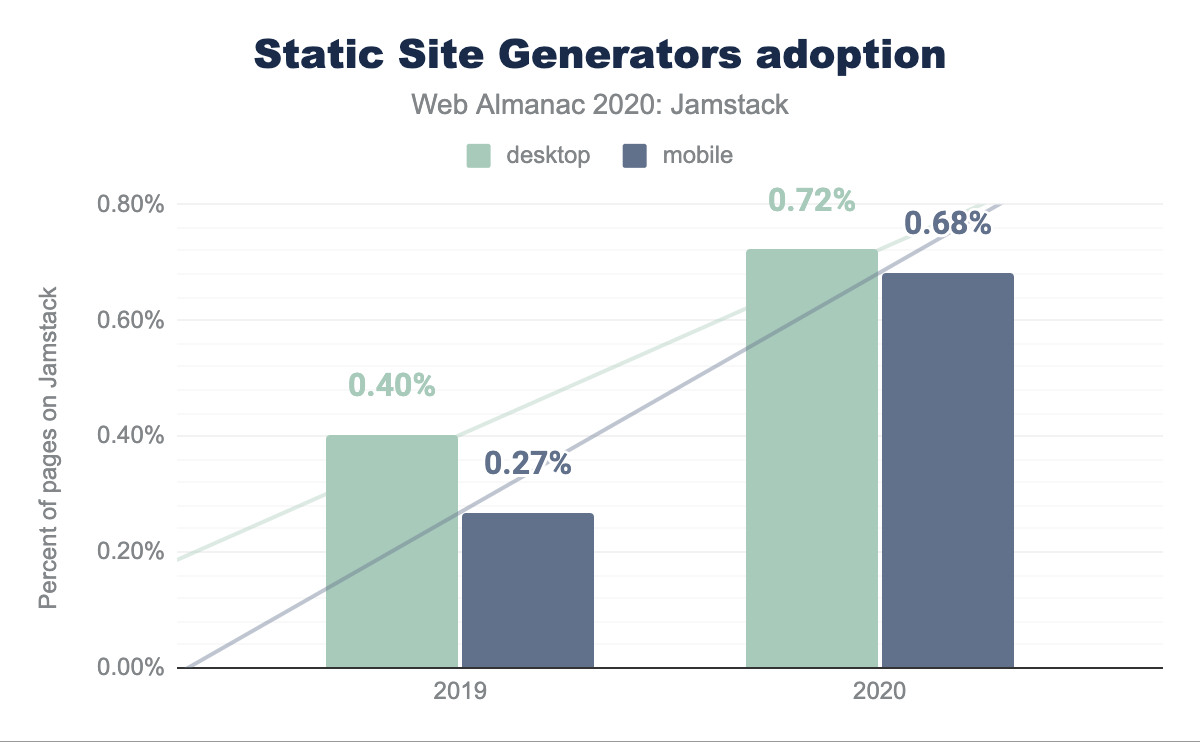
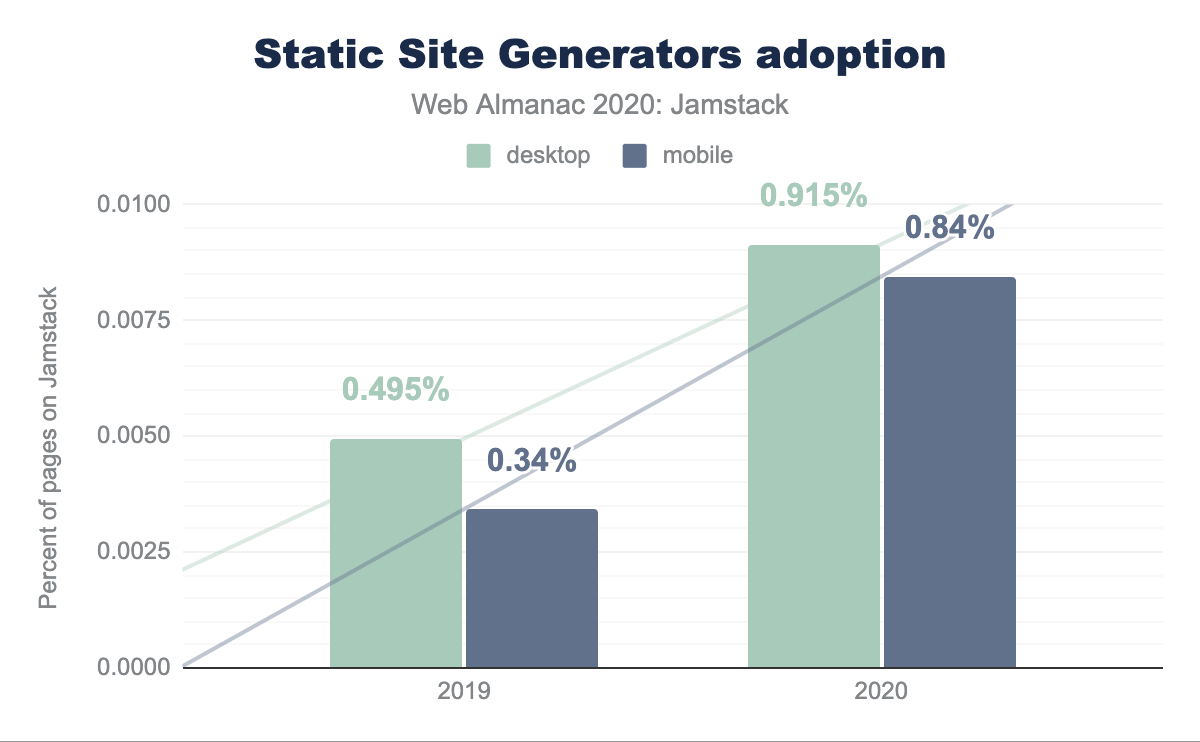
Update first chart and featured quote

diff --git a/src/content/en/2020/jamstack.md b/src/content/en/2020/jamstack.md
@@ -10,12 +10,12 @@ translators: []
 ahmadawais_bio: Ahmad Awais is an award-winning open-source engineer, Google Developers Expert Dev Advocate, Node.js Community Committee Outreach Lead, WordPress Core Dev, and VP of Engineering DevRel at WGA. He has authored various open-source software tools used by millions of developers worldwide. Like his <a href="https://shadesofpurple.pro/more">Shades of Purple</a> code-theme or projects like the <a href="https://github.com/AhmadAwais/corona-cli">corona-cli</a>. Awais loves to teach. Over 20,000 developers are learning from his <a href="https://AhmadAwais.com/courses">courses</a> i.e. <a href="https://nodecli.com/">Node CLI</a>, <a href="https://vscode.pro/">VSCode.pro</a>, and <a href="https://nextjsbeginner.com/">Next.js Beginner</a>. Awais received FOSS community leadership recognition as one of the <a href="https://ahmadawais.com/github-stars/">12 featured GitHub Stars</a>. He is a member of the Smashing Magazine Experts Panel; featured &amp; published author at CSS-Tricks, Tuts+, Scotch.io, SitePoint. You can mostly find him on Twitter <a href="https://twitter.com/MrAhmadAwais/">@MrAhmadAwais</a> where he tweets his <a href="https://awais.dev/odmt">#OneDevMinute</a> developer tips.
 discuss: 2053
 results: https://docs.google.com/spreadsheets/d/1BCC5Q4tePpTl8TiaGmSxBc9Lh2to7xBfVPMULFOBwvk/
-featured_quote: Stats suggest almost twice as many Jamstack sites exist now than in 2019. Developers enjoy a better development experience by separating the frontend from the backend. But what about the real-user experience of browsing Jamstack sites?
-featured_stat_1: 154%
+featured_quote: Stats suggest over twice as many Jamstack sites exist now than in 2019. Developers enjoy a better development experience by separating the frontend from the backend. But what about the real-user experience of browsing Jamstack sites?
+featured_stat_1: 147%
 featured_stat_label_1: Increase in Jamstack websites in 2020
 featured_stat_2: 1 gram
 featured_stat_label_2: CO2 emitted for median Jamstack on page load
-featured_stat_3: 72.5%
+featured_stat_3: 58.59%
 featured_stat_label_3: Jamstack sites built using Next.js
 ---
 
@@ -38,7 +38,7 @@ Our analysis throughout this work looks at desktop and mobile websites. The vast
 {{ figure_markup(
   image="jamstack-adoption.png",
   caption="Jamstack adoption trend.",
-  description="Bar chart showing the increase in the level of Jamstack adoption in 2019 and 2020. Mobile has increased from 0.40% to 0.72%. Desktop has increased from 0.27% to 0.68%.",
+  description="Bar chart showing the increase in the level of Jamstack adoption in 2019 and 2020. Mobile has increased from 0.50% to 0.91%. Desktop has increased from 0.34% to 0.84%.",
   chart_url="https://docs.google.com/spreadsheets/d/e/2PACX-1vQ-zBygubF5NuAXOGScVLhnozB_6Pi_0z4B57cP_I6AfeBuZCGzs3aP_1nPjPp37aNRATRYC6EfOeYX/pubchart?oid=1650360073&format=interactive",
   sheets_gid="908645975",
   sql_file="ssg_compared_to_2019.sql"
@@ -59,27 +59,27 @@ Approximately 0.7% of web pages are powered by Jamstack and breaks down to 0.72%
     <tbody>
       <tr>
         <td>2019</td>
-        <td class="numeric">0.40%</td>
-        <td class="numeric">0.27%</td>
+        <td class="numeric">0.50%</td>
+        <td class="numeric">0.34%</td>
       </tr>
       <tr>
         <td>2020</td>
-        <td class="numeric">0.72%</td>
-        <td class="numeric">0.68%</td>
+        <td class="numeric">0.91%</td>
+        <td class="numeric">0.85%</td>
       </tr>
     </tbody>
     <tfoot>
       <tr>
         <th scope="col">% Change</td>
-        <th scope="col" class="numeric">79%</td>
-        <th scope="col" class="numeric">154%</td>
+        <th scope="col" class="numeric">85%</td>
+        <th scope="col" class="numeric">147%</td>
       </tr>
     </tfoot>
   </table>
   <figcaption>{{ figure_link(caption="Jamstack adoption statistics.", sheets_gid="908645975", sql_file="ssg_compared_to_2019.sql") }}</figcaption>
 </figure>
 
-The increase in desktop web pages powered by a Jamstack framework is 79% from last year. On mobile, this increase is almost two folds, at 154%. This is a significant growth from 2019, especially for mobile pages. We believe this is a sign of the steady growth of the Jamstack community.
+The increase in desktop web pages powered by a Jamstack framework is 85% from last year. On mobile, this increase is almost two and a half times, at 147%. This is a significant growth from 2019, especially for mobile pages. We believe this is a sign of the steady growth of the Jamstack community.
 
 ## Jamstack frameworks
 
